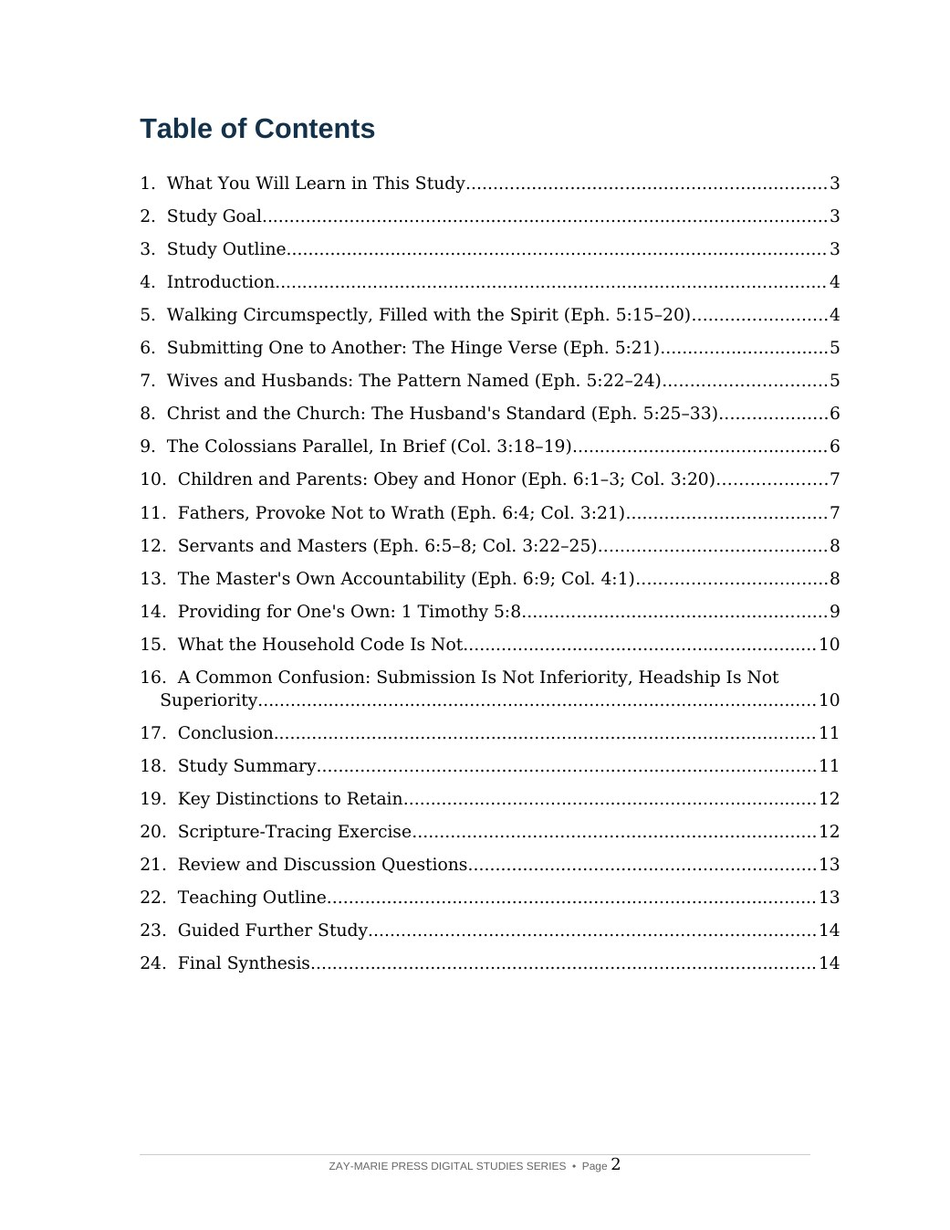
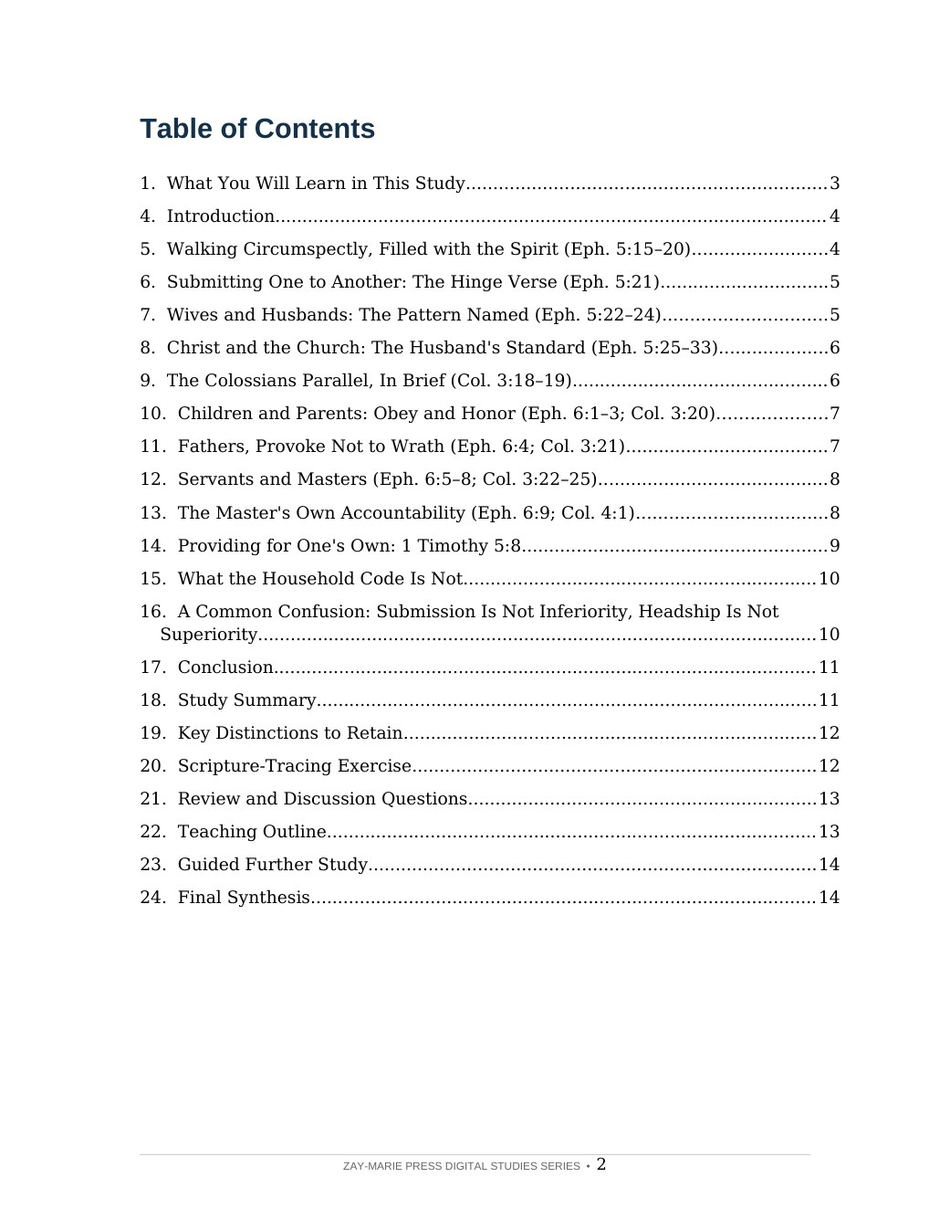
Study 48 previews re-rendered (footer and TOC fix); Study 46 preview strip set to pp. 2, 7, 9; tracker v1.14
Claude-Session: https://claude.ai/code/session_01QibtkwXuhqKkeD6pfcAZUc

diff --git a/study-46-secure-in-christ.html b/study-46-secure-in-christ.html
@@ -1,4 +1,4 @@
 <!doctype html>
 <html lang="en"><head><meta charset="utf-8"><meta name="viewport" content="width=device-width,initial-scale=1"><title>Secure in Christ | Zay-Marie Press</title><meta name="description" content="Can the believer’s standing in Christ be lost? Trace the seal and earnest of the Spirit, Romans 8:28–39, and 2 Timothy 2:11–13, then answer the hardest texts raised against it. Preview Study 46 from Zay-Marie Press."><link rel="stylesheet" href="styles.css?v=20260921-4"><link rel="icon" type="image/png" href="assets/zay-marie-press-favicon.png"><style>
 .study-detail-page{background:#fff;color:#252525}.detail-hero{background:linear-gradient(135deg,#f8f5ec,#e3ece2);padding:58px 0}.detail-hero-grid{display:grid;grid-template-columns:minmax(250px,.72fr) minmax(0,1.28fr);gap:58px;align-items:center}.detail-cover{max-width:390px;margin:auto}.detail-cover img{display:block;width:100%;height:auto;box-shadow:0 14px 36px rgba(8,45,69,.18)}.detail-hero h1{font-size:clamp(2.7rem,5vw,4.7rem);line-height:1.02;margin:8px 0 10px;color:#143823}.detail-subtitle{font-family:Georgia,serif;font-size:1.35rem;font-weight:700;color:#082d45;margin:0 0 7px}.detail-kicker{font-family:Georgia,serif;font-style:italic;font-size:1.05rem;color:#4a4a44;margin:0 0 22px}.detail-copy{font-size:1.08rem;line-height:1.65;max-width:760px}.detail-buyline{display:flex;align-items:center;gap:18px;flex-wrap:wrap;margin-top:25px}.detail-price{font-family:Georgia,serif;font-size:2rem;font-weight:700;color:#143823}.detail-format,.preview-card .page-no{font-family:Arial,sans-serif;font-size:.76rem;font-weight:700;letter-spacing:.1em;text-transform:uppercase;color:#176b3a}.detail-button{display:inline-block;background:#176b3a;color:#fff;padding:13px 22px;font-family:Arial,sans-serif;font-size:.8rem;font-weight:700;letter-spacing:.07em;text-transform:uppercase}.detail-button.pending{opacity:.72;cursor:default}.detail-section{padding:66px 0}.detail-section.soft{background:#f6f7f2}.detail-section.cream{background:#faf8f2}.detail-section h2{color:#143823;margin:6px 0 18px;font-size:clamp(2rem,3.4vw,3rem)}.detail-section .lead{max-width:920px;font-size:1.1rem;line-height:1.62}.study-distinction{max-width:920px;margin-top:28px;margin-bottom:28px;padding:26px 28px;background:#fff;border:1px solid #d8d1bf;border-left:4px solid #b8871c}.study-distinction h3{margin:0 0 10px;color:#143823}.study-distinction p{margin:0 0 14px;line-height:1.62}.study-distinction a{font-family:Arial,sans-serif;font-weight:700;color:#176b3a;text-decoration:none}.study-points{display:grid;grid-template-columns:repeat(3,1fr);gap:18px;margin-top:28px;margin-bottom:28px}.study-point,.scripture-card,.preview-card,.include-item{background:#fff;border:1px solid var(--line);text-align:left}.study-point{border-top:3px solid #176b3a;padding:22px}.study-point h3{color:#143823;margin:0 0 8px;font-size:1.2rem}.study-point p,.scripture-card p,.preview-card p,.include-item p{margin:0;line-height:1.55}.scripture-grid{display:grid;grid-template-columns:repeat(4,1fr);gap:14px;margin-top:24px;margin-bottom:24px}.scripture-card{padding:22px 20px;color:#143823}.scripture-card h3{margin:0 0 9px;font-family:Georgia,serif;font-size:1rem;line-height:1.35}.scripture-card p{font-size:.94rem;color:#45453f}.excerpt{max-width:900px;margin:28px auto;border-left:4px solid #b8871c;padding:10px 0 10px 28px}.excerpt blockquote{font-family:Georgia,serif;font-size:clamp(1.45rem,2.5vw,2rem);line-height:1.45;color:#143823;margin:0 0 16px}.excerpt p{line-height:1.6;margin:0}.preview-grid{display:grid;grid-template-columns:repeat(3,1fr);gap:20px;margin-top:28px;margin-bottom:28px}.preview-card{padding:18px;min-height:210px;box-shadow:0 7px 20px rgba(20,40,25,.05)}.preview-image-link{display:block;margin:0 0 18px}.preview-image-link img{display:block;width:100%;height:auto;border:1px solid #d8d1bf;box-shadow:0 8px 22px rgba(20,40,25,.1);transition:transform .18s ease,box-shadow .18s ease}.preview-image-link:hover img{transform:translateY(-2px);box-shadow:0 11px 28px rgba(20,40,25,.16)}.preview-card h3{color:#143823;margin:8px 0 10px}.preview-instruction{margin:10px 0 0;font-family:Arial,sans-serif;font-size:.78rem;letter-spacing:.04em;color:#5b5b55}.includes-grid{display:grid;grid-template-columns:repeat(4,1fr);gap:14px;margin-top:26px}.include-item{padding:22px 20px;color:#143823}.include-item h3{margin:0 0 9px;font-family:Arial,sans-serif;font-size:.86rem;line-height:1.35;letter-spacing:.02em}.include-item p{font-size:.94rem;color:#45453f}.final-buy{background:#082d45;color:#fff;border-top:4px solid #b8871c;padding:42px 48px;display:grid;grid-template-columns:1fr auto;gap:36px;align-items:center}.final-buy .eyebrow,.final-buy h2,.final-buy .detail-price{color:#fff}.final-buy h2{margin:7px 0 6px}.final-buy p{margin:0}.final-offer{text-align:center}.back-link{display:inline-block;margin-top:18px;color:#143823;font-family:Arial,sans-serif;font-weight:700;text-decoration:none}.preview-lightbox{position:fixed;inset:0;z-index:10000;display:none;align-items:flex-start;justify-content:center;background:rgba(8,22,16,.88);padding:24px;overflow:auto}.preview-lightbox.open{display:flex}.preview-lightbox img{display:block;width:auto;height:auto;max-width:none;box-shadow:0 18px 55px rgba(0,0,0,.4);background:#fff}.preview-lightbox-close{position:fixed;top:18px;right:24px;z-index:10001;width:46px;height:46px;border:1px solid rgba(255,255,255,.65);border-radius:50%;background:rgba(0,0,0,.55);color:#fff;font:32px/1 Arial,sans-serif;cursor:pointer}@media(max-width:900px){.detail-hero-grid{grid-template-columns:1fr;gap:34px}.detail-cover{max-width:330px}.study-points{grid-template-columns:repeat(2,1fr)}.scripture-grid,.includes-grid{grid-template-columns:repeat(2,1fr)}.preview-grid,.final-buy{grid-template-columns:1fr}.final-offer{text-align:left}}@media(max-width:560px){.detail-hero{padding:42px 0}.detail-section{padding:50px 0}.study-points,.scripture-grid,.includes-grid{grid-template-columns:1fr}.final-buy{padding:32px 24px}.detail-buyline{align-items:flex-start;flex-direction:column;gap:8px}.preview-lightbox{padding:58px 10px 24px}.preview-lightbox img{width:100%;max-width:100%;height:auto}} .detail-hero h1{font-size:clamp(2.1rem,4.2vw,3.7rem);line-height:1.08}</style></head><body class="study-detail-page">
-<header class="site-header"><div class="wrap nav"><a class="logo" href="index.html" aria-label="Zay-Marie Press home"><img src="assets/zay-marie-press-logo-hq.png" alt="Zay-Marie Press" width="420" height="238"></a><button class="menu-toggle" type="button" aria-expanded="false" aria-controls="primary-nav">MENU</button><nav aria-label="Primary navigation" class="primary-nav" id="primary-nav"><a href="index.html">HOME</a><a href="books.html">BOOKS</a><a href="series.html">SERIES</a><a class="active" aria-current="page" href="digital-studies.html">DIGITAL STUDIES</a><a href="biblical-hermeneutics-course.html">COURSE</a><a href="about.html">ABOUT</a><a href="resources.html">RESOURCES</a><a href="contact.html">CONTACT</a></nav></div></header><main><section class="detail-hero"><div class="wrap detail-hero-grid"><div class="detail-cover"><picture><source srcset="assets/study-46-cover.webp" type="image/webp"><img src="assets/study-46-cover.jpg" alt="Secure in Christ — Study 46 cover"></picture></div><div><div class="eyebrow">STUDY 46 · DIGITAL STUDY</div><h1>Secure in Christ</h1><p class="detail-subtitle">The Seal of the Spirit, the Love That Cannot Be Severed, and the Faithfulness of God</p><p class="detail-kicker">A Biblical Examination of the Believer’s Security in Christ Under the Mystery Revealed Through Paul</p><p class="detail-copy">The believer under grace is told to rest in a standing he did not earn and cannot maintain by his own strength. That raises a direct question: can what was freely given be taken away, forfeited, or lost? Believers fail, doubt, and sometimes fall into open disobedience — and if the believer’s standing depended even partly on his own performance, no believer could ever be sure of it.</p><p class="detail-copy">This study answers from Paul’s own letters: the seal and earnest of the Spirit, the unbroken chain of Romans 8:28–39, and God’s own faithfulness in 2 Timothy 2:11–13. It then reads the texts most often raised against that security, inside and outside Paul’s letters, and distinguishes a lost reward from a lost standing, so the two are never confused.</p><div class="detail-buyline"><span class="detail-price">$5.99</span><span class="detail-format">Digital PDF · 15 Pages</span><span class="detail-button pending" aria-disabled="true">Checkout Coming Soon</span></div></div></div></section><section class="detail-section"><div class="wrap"><div class="eyebrow">ABOUT THIS STUDY</div><h2>A Standing Secured by God, Not Maintained by the Believer</h2><p class="lead">Paul’s letters answer the believer’s security question directly, in his own terms and for his own audience. The seal of the Spirit marks ownership and names its own terminus — “unto the day of redemption” — not the believer’s next failure. The earnest is God’s own pledge of a certain future payment. Romans 8:28–39 traces a chain in which every verb belongs to God and closes with a total, named list of what cannot separate the believer from His love.</p><p class="lead">This study is not a general study of the believer’s identity in Christ, which Study 16 surveys broadly, nor a re-argument of Hebrews 6:4–6, which Study 28 examines on its own terms, nor a full classification of biblical judgments, which Study 31 undertakes. It assumes each of those and asks a narrower question: once a standing is given in Christ, is that standing ever revocable?</p><div class="study-distinction"><h3>How These Studies Relate</h3><p>Study 46 traces the ground, the argument, and the objections concerning the believer’s secure standing in Christ under grace.</p><p><a href="study-16-the-believers-identity-in-christ.html">Study 16 — The Believer&#x27;s Identity in Christ</a> Start with the believer’s settled identity in Christ, including the seal and the earnest introduced there as ground for assurance; Study 46 asks the narrower question that study leaves open, whether that standing can be lost.</p><p><a href="study-28-the-warning-of-hebrews-6-4-6.html">Study 28 — The Warning of Hebrews 6:4–6</a> Read the full exposition of this frequently raised warning text within its own Hebrew, covenant audience; Study 46 relies on that exposition rather than re-arguing it.</p><p><a href="study-31-the-judgments-of-scripture.html">Study 31 — The Judgments of Scripture</a> Use the broader classification of biblical judgments to keep a lost reward distinct from a lost standing, the same distinction Study 46 draws from 1 Corinthians 3:11–15 and 2 Timothy 2:12.</p><p class="connection-guide-link"><a href="study-connections.html#study-46">Explore the full connection guide for Study 46 →</a></p></div><div class="eyebrow">WHAT YOU’LL STUDY</div><h2>Trace the Ground, the Argument, and the Objections</h2><div class="study-points"><div class="study-point"><h3>What Grounds the Believer's Acceptance</h3><p>Test whether the believer’s acceptance in Ephesians 1:6 rests on Christ’s work or on ongoing performance.</p></div><div class="study-point"><h3>Sealed Unto the Day of Redemption</h3><p>Read Ephesians 1:13–14 and 4:30’s stated terminus for the Spirit’s seal of ownership.</p></div><div class="study-point"><h3>The Earnest of the Spirit</h3><p>Examine what kind of guarantee an earnest actually is, and what Ephesians 1:14 says it obligates God to deliver.</p></div><div class="study-point"><h3>An Unbroken Chain</h3><p>Trace Romans 8:28–39’s chain of God’s own verbs, and its list of what cannot separate.</p></div><div class="study-point"><h3>Kept by His Faithfulness</h3><p>Read 2 Timothy 2:11–13’s distinction between a denied reward and God’s own unchanging character.</p></div><div class="study-point"><h3>Reward Lost, Standing Kept</h3><p>Follow 1 Corinthians 3:11–15’s tested work, and Paul’s verdict on the worker himself.</p></div></div><div class="eyebrow">KEY SCRIPTURES</div><h2>Examine the Passages for Yourself</h2><div class="scripture-grid"><div class="scripture-card"><h3>Ephesians 1:13–14</h3><p>Sealed with the Spirit of promise, given as the earnest of the inheritance.</p></div><div class="scripture-card"><h3>Ephesians 4:30</h3><p>Sealed “unto the day of redemption” — the seal’s own stated terminus.</p></div><div class="scripture-card"><h3>Romans 8:29–30</h3><p>Foreknown, predestinated, called, justified, glorified — a chain of God’s own verbs.</p></div><div class="scripture-card"><h3>Romans 8:31–39</h3><p>An exhaustive, named list of what cannot separate the believer from God’s love.</p></div><div class="scripture-card"><h3>2 Timothy 2:11–13</h3><p>“He abideth faithful: he cannot deny himself” — the guarantee is God’s own character.</p></div><div class="scripture-card"><h3>1 Corinthians 3:11–15</h3><p>Work tested by fire; the worker himself is stated to be saved.</p></div><div class="scripture-card"><h3>Galatians 5:1–6</h3><p>“Fallen from grace” read within its own argument about law-keeping, not lost standing.</p></div><div class="scripture-card"><h3>Hebrews 6:4–6</h3><p>A covenant-audience warning, examined fully in Study 28, not transferred to the Body.</p></div></div><div class="eyebrow">FROM THE STUDY</div><h2>A Chain With No Human Link</h2><div class="excerpt"><blockquote>Foreknew, predestinated, called, justified, glorified — every verb in that chain belongs to God.</blockquote><p>A chain with no human link cannot be broken by human failure. Romans 8:29–30 traces the believer’s security from foreknowledge to glory in a single, unbroken sequence, and every verb in it is something God does, not something the believer maintains.</p></div><div class="eyebrow">A LOOK INSIDE</div><h2>Preview the Study Before You Purchase</h2><p class="preview-instruction">Click any page to enlarge it for reading.</p><div class="preview-grid"><div class="preview-card"><a class="preview-image-link" data-preview-lightbox href="assets/study-46-page-2.jpg"><img src="assets/study-46-page-2.jpg" alt="Study 46 page 2: table of contents"></a><div class="page-no">Page 2</div><h3>Table of Contents</h3><p>See the study’s full structure and scope at a glance.</p></div><div class="preview-card"><a class="preview-image-link" data-preview-lightbox href="assets/study-46-page-3.jpg"><img src="assets/study-46-page-3.jpg" alt="Study 46 page 3: what you will learn, study goal, and study outline"></a><div class="page-no">Page 3</div><h3>What You Will Learn</h3><p>See the study’s goal, outline, and the question it sets out to answer.</p></div><div class="preview-card"><a class="preview-image-link" data-preview-lightbox href="assets/study-46-page-8.jpg"><img src="assets/study-46-page-8.jpg" alt="Study 46 page 8: reading Paul’s conditional texts and the objection texts outside his letters"></a><div class="page-no">Page 8</div><h3>Reading Paul’s “If” Texts</h3><p>Watch how the study reads conditional wording in Paul’s letters within its own argument.</p></div></div><div class="eyebrow">WHAT’S INCLUDED</div><h2>A Focused Study Built for<br>Understanding and Teaching</h2><div class="includes-grid"><div class="include-item"><h3>14-Page In-Depth Biblical Study</h3><p>A careful study of the believer’s secure standing in Christ, grounded in Paul’s own letters.</p></div><div class="include-item"><h3>9 Core Teaching Sections</h3><p>Progress from the ground of security through Paul’s strongest argument to the hardest objection texts.</p></div><div class="include-item"><h3>Two Comparison Tables</h3><p>See the seal’s own terms at a glance, and weigh each objection text by its audience and program.</p></div><div class="include-item"><h3>10 Review Questions</h3><p>Test the study’s distinctions concerning standing, reward, and the texts raised against security.</p></div><div class="include-item"><h3>Teaching Outline</h3><p>A structured framework for teaching the believer’s security with precision.</p></div><div class="include-item"><h3>Guided Further Study</h3><p>Return to the seal, the chain of Romans 8, and the objection texts, with directed questions.</p></div><div class="include-item"><h3>Scripture-Tracing Exercise</h3><p>Trace the study’s key passages across Ephesians, Romans, Timothy, and Corinthians in their own context.</p></div><div class="include-item"><h3>Final Synthesis Exercise</h3><p>Bring the evidence together in one coherent, Scripture-based explanation.</p></div></div><div class="final-buy"><div><div class="eyebrow">STUDY 46 · DIGITAL STUDY</div><h2>Secure in Christ</h2><p>15-page digital PDF · For personal use</p></div><div class="final-offer"><div class="detail-price">$5.99</div><span class="detail-button pending" aria-disabled="true">Checkout Coming Soon</span></div></div><a class="back-link" href="digital-studies.html">← Back to All Digital Studies</a></div></section><section class="study-method-course-bridge"><div class="wrap"><div class="study-method-course-panel"><div><div class="eyebrow">BUILD THE INTERPRETIVE METHOD</div><h2>Want More Than a Focused Study?</h2><p>Digital Studies examine particular biblical subjects and difficult passages. The 40-lesson Biblical Hermeneutics course teaches a complete, repeatable method for establishing meaning in context, determining proper assignment, and making responsible application.</p></div><a class="btn btn-primary" href="biblical-hermeneutics-course.html">BIBLICAL HERMENEUTICS COURSE</a></div></div></section></main><div class="preview-lightbox" id="preview-lightbox" role="dialog" aria-modal="true" aria-label="Expanded study preview"><button class="preview-lightbox-close" type="button" aria-label="Close preview">×</button><img id="preview-lightbox-image" alt=""></div><footer class="site-footer"><div class="wrap footer-grid"><div class="footer-about"><h3>Zay-Marie Press</h3><p class="footer-tagline"><em>Where the Bible Means What It Says.</em></p><p>Zay-Marie Press is a Christian theological publisher dedicated to producing doctrinally precise, carefully structured biblical resources that equip pastors, teachers, and serious students with clarity, depth, and Scripture-anchored truth.</p><p><a href="https://zaymariepress.com">zaymariepress.com</a><br><a href="mailto:info@zaymariepress.com">info@zaymariepress.com</a></p></div><div class="footer-column"><h3>Explore</h3><div class="footer-links-stacked"><a href="books.html">Books</a><br><a href="series.html">Series</a><br><a href="biblical-hermeneutics-course.html">Course</a><br><a href="digital-studies.html">Digital Studies</a><br><a href="resources.html">Resources</a><br><a href="bible-book-summaries.html">Bible Book Summaries</a><br><a href="doctrinal-packets.html">Doctrinal Packets</a><br><a href="historical-drift.html">Historical Drift</a><br><a href="about.html">About</a><br><a href="contact.html">Contact</a></div></div><div class="footer-column"><h3>Reader Support</h3><div class="footer-links-stacked"><a href="reader-support.html#faq">FAQ</a><br><a href="reader-support.html#shipping-returns">Shipping &amp; Returns</a><br><a href="reader-support.html#digital-downloads">Digital Downloads</a><br><a href="reader-support.html#contact-support">Contact Support</a></div></div><div class="footer-column"><h3>Acts Overlap</h3><p><strong>Acts Overlap Theology Series</strong></p><p><em>Two Distinct Streams. One Overlap.</em></p><p><a href="series.html">Series Overview</a></p></div></div><div class="wrap footer-bottom">© 2026 Zay-Marie Press. All rights reserved.</div></footer><script src="site.js"></script><script>const lightbox=document.getElementById('preview-lightbox'),lightboxImage=document.getElementById('preview-lightbox-image'),closeLightbox=()=>{lightbox.classList.remove('open');lightboxImage.src='';};document.querySelectorAll('[data-preview-lightbox]').forEach(link=>link.addEventListener('click',event=>{event.preventDefault();lightboxImage.src=link.href;lightboxImage.alt=link.querySelector('img').alt;lightbox.classList.add('open');}));document.querySelector('.preview-lightbox-close').addEventListener('click',closeLightbox);lightbox.addEventListener('click',event=>{if(event.target===lightbox)closeLightbox();});document.addEventListener('keydown',event=>{if(event.key==='Escape')closeLightbox();});</script></body></html>
+<header class="site-header"><div class="wrap nav"><a class="logo" href="index.html" aria-label="Zay-Marie Press home"><img src="assets/zay-marie-press-logo-hq.png" alt="Zay-Marie Press" width="420" height="238"></a><button class="menu-toggle" type="button" aria-expanded="false" aria-controls="primary-nav">MENU</button><nav aria-label="Primary navigation" class="primary-nav" id="primary-nav"><a href="index.html">HOME</a><a href="books.html">BOOKS</a><a href="series.html">SERIES</a><a class="active" aria-current="page" href="digital-studies.html">DIGITAL STUDIES</a><a href="biblical-hermeneutics-course.html">COURSE</a><a href="about.html">ABOUT</a><a href="resources.html">RESOURCES</a><a href="contact.html">CONTACT</a></nav></div></header><main><section class="detail-hero"><div class="wrap detail-hero-grid"><div class="detail-cover"><picture><source srcset="assets/study-46-cover.webp" type="image/webp"><img src="assets/study-46-cover.jpg" alt="Secure in Christ — Study 46 cover"></picture></div><div><div class="eyebrow">STUDY 46 · DIGITAL STUDY</div><h1>Secure in Christ</h1><p class="detail-subtitle">The Seal of the Spirit, the Love That Cannot Be Severed, and the Faithfulness of God</p><p class="detail-kicker">A Biblical Examination of the Believer’s Security in Christ Under the Mystery Revealed Through Paul</p><p class="detail-copy">The believer under grace is told to rest in a standing he did not earn and cannot maintain by his own strength. That raises a direct question: can what was freely given be taken away, forfeited, or lost? Believers fail, doubt, and sometimes fall into open disobedience — and if the believer’s standing depended even partly on his own performance, no believer could ever be sure of it.</p><p class="detail-copy">This study answers from Paul’s own letters: the seal and earnest of the Spirit, the unbroken chain of Romans 8:28–39, and God’s own faithfulness in 2 Timothy 2:11–13. It then reads the texts most often raised against that security, inside and outside Paul’s letters, and distinguishes a lost reward from a lost standing, so the two are never confused.</p><div class="detail-buyline"><span class="detail-price">$5.99</span><span class="detail-format">Digital PDF · 15 Pages</span><span class="detail-button pending" aria-disabled="true">Checkout Coming Soon</span></div></div></div></section><section class="detail-section"><div class="wrap"><div class="eyebrow">ABOUT THIS STUDY</div><h2>A Standing Secured by God, Not Maintained by the Believer</h2><p class="lead">Paul’s letters answer the believer’s security question directly, in his own terms and for his own audience. The seal of the Spirit marks ownership and names its own terminus — “unto the day of redemption” — not the believer’s next failure. The earnest is God’s own pledge of a certain future payment. Romans 8:28–39 traces a chain in which every verb belongs to God and closes with a total, named list of what cannot separate the believer from His love.</p><p class="lead">This study is not a general study of the believer’s identity in Christ, which Study 16 surveys broadly, nor a re-argument of Hebrews 6:4–6, which Study 28 examines on its own terms, nor a full classification of biblical judgments, which Study 31 undertakes. It assumes each of those and asks a narrower question: once a standing is given in Christ, is that standing ever revocable?</p><div class="study-distinction"><h3>How These Studies Relate</h3><p>Study 46 traces the ground, the argument, and the objections concerning the believer’s secure standing in Christ under grace.</p><p><a href="study-16-the-believers-identity-in-christ.html">Study 16 — The Believer&#x27;s Identity in Christ</a> Start with the believer’s settled identity in Christ, including the seal and the earnest introduced there as ground for assurance; Study 46 asks the narrower question that study leaves open, whether that standing can be lost.</p><p><a href="study-28-the-warning-of-hebrews-6-4-6.html">Study 28 — The Warning of Hebrews 6:4–6</a> Read the full exposition of this frequently raised warning text within its own Hebrew, covenant audience; Study 46 relies on that exposition rather than re-arguing it.</p><p><a href="study-31-the-judgments-of-scripture.html">Study 31 — The Judgments of Scripture</a> Use the broader classification of biblical judgments to keep a lost reward distinct from a lost standing, the same distinction Study 46 draws from 1 Corinthians 3:11–15 and 2 Timothy 2:12.</p><p class="connection-guide-link"><a href="study-connections.html#study-46">Explore the full connection guide for Study 46 →</a></p></div><div class="eyebrow">WHAT YOU’LL STUDY</div><h2>Trace the Ground, the Argument, and the Objections</h2><div class="study-points"><div class="study-point"><h3>What Grounds the Believer's Acceptance</h3><p>Test whether the believer’s acceptance in Ephesians 1:6 rests on Christ’s work or on ongoing performance.</p></div><div class="study-point"><h3>Sealed Unto the Day of Redemption</h3><p>Read Ephesians 1:13–14 and 4:30’s stated terminus for the Spirit’s seal of ownership.</p></div><div class="study-point"><h3>The Earnest of the Spirit</h3><p>Examine what kind of guarantee an earnest actually is, and what Ephesians 1:14 says it obligates God to deliver.</p></div><div class="study-point"><h3>An Unbroken Chain</h3><p>Trace Romans 8:28–39’s chain of God’s own verbs, and its list of what cannot separate.</p></div><div class="study-point"><h3>Kept by His Faithfulness</h3><p>Read 2 Timothy 2:11–13’s distinction between a denied reward and God’s own unchanging character.</p></div><div class="study-point"><h3>Reward Lost, Standing Kept</h3><p>Follow 1 Corinthians 3:11–15’s tested work, and Paul’s verdict on the worker himself.</p></div></div><div class="eyebrow">KEY SCRIPTURES</div><h2>Examine the Passages for Yourself</h2><div class="scripture-grid"><div class="scripture-card"><h3>Ephesians 1:13–14</h3><p>Sealed with the Spirit of promise, given as the earnest of the inheritance.</p></div><div class="scripture-card"><h3>Ephesians 4:30</h3><p>Sealed “unto the day of redemption” — the seal’s own stated terminus.</p></div><div class="scripture-card"><h3>Romans 8:29–30</h3><p>Foreknown, predestinated, called, justified, glorified — a chain of God’s own verbs.</p></div><div class="scripture-card"><h3>Romans 8:31–39</h3><p>An exhaustive, named list of what cannot separate the believer from God’s love.</p></div><div class="scripture-card"><h3>2 Timothy 2:11–13</h3><p>“He abideth faithful: he cannot deny himself” — the guarantee is God’s own character.</p></div><div class="scripture-card"><h3>1 Corinthians 3:11–15</h3><p>Work tested by fire; the worker himself is stated to be saved.</p></div><div class="scripture-card"><h3>Galatians 5:1–6</h3><p>“Fallen from grace” read within its own argument about law-keeping, not lost standing.</p></div><div class="scripture-card"><h3>Hebrews 6:4–6</h3><p>A covenant-audience warning, examined fully in Study 28, not transferred to the Body.</p></div></div><div class="eyebrow">FROM THE STUDY</div><h2>A Chain With No Human Link</h2><div class="excerpt"><blockquote>Foreknew, predestinated, called, justified, glorified — every verb in that chain belongs to God.</blockquote><p>A chain with no human link cannot be broken by human failure. Romans 8:29–30 traces the believer’s security from foreknowledge to glory in a single, unbroken sequence, and every verb in it is something God does, not something the believer maintains.</p></div><div class="eyebrow">A LOOK INSIDE</div><h2>Preview the Study Before You Purchase</h2><p class="preview-instruction">Click any page to enlarge it for reading.</p><div class="preview-grid"><div class="preview-card"><a class="preview-image-link" data-preview-lightbox href="assets/study-46-page-2.jpg"><img src="assets/study-46-page-2.jpg" alt="Study 46 page 2: table of contents"></a><div class="page-no">Page 2</div><h3>Table of Contents</h3><p>See the study’s full structure and scope at a glance.</p></div><div class="preview-card"><a class="preview-image-link" data-preview-lightbox href="assets/study-46-page-7.jpg"><img src="assets/study-46-page-7.jpg" alt="Study 46 page 7: 2 Timothy 2:11–13 and the distinction between reward and standing"></a><div class="page-no">Page 7</div><h3>2 Timothy 2:11–13 and the Reward Distinction</h3><p>See how the study reads a conditional passage within its own argument.</p></div><div class="preview-card"><a class="preview-image-link" data-preview-lightbox href="assets/study-46-page-9.jpg"><img src="assets/study-46-page-9.jpg" alt="Study 46 page 9: objection texts weighed by audience and program"></a><div class="page-no">Page 9</div><h3>Objection Texts and Their Audiences</h3><p>See how the study asks who is addressed, and under which program, before applying a warning.</p></div></div><div class="eyebrow">WHAT’S INCLUDED</div><h2>A Focused Study Built for<br>Understanding and Teaching</h2><div class="includes-grid"><div class="include-item"><h3>14-Page In-Depth Biblical Study</h3><p>A careful study of the believer’s secure standing in Christ, grounded in Paul’s own letters.</p></div><div class="include-item"><h3>9 Core Teaching Sections</h3><p>Progress from the ground of security through Paul’s strongest argument to the hardest objection texts.</p></div><div class="include-item"><h3>Two Comparison Tables</h3><p>See the seal’s own terms at a glance, and weigh each objection text by its audience and program.</p></div><div class="include-item"><h3>10 Review Questions</h3><p>Test the study’s distinctions concerning standing, reward, and the texts raised against security.</p></div><div class="include-item"><h3>Teaching Outline</h3><p>A structured framework for teaching the believer’s security with precision.</p></div><div class="include-item"><h3>Guided Further Study</h3><p>Return to the seal, the chain of Romans 8, and the objection texts, with directed questions.</p></div><div class="include-item"><h3>Scripture-Tracing Exercise</h3><p>Trace the study’s key passages across Ephesians, Romans, Timothy, and Corinthians in their own context.</p></div><div class="include-item"><h3>Final Synthesis Exercise</h3><p>Bring the evidence together in one coherent, Scripture-based explanation.</p></div></div><div class="final-buy"><div><div class="eyebrow">STUDY 46 · DIGITAL STUDY</div><h2>Secure in Christ</h2><p>15-page digital PDF · For personal use</p></div><div class="final-offer"><div class="detail-price">$5.99</div><span class="detail-button pending" aria-disabled="true">Checkout Coming Soon</span></div></div><a class="back-link" href="digital-studies.html">← Back to All Digital Studies</a></div></section><section class="study-method-course-bridge"><div class="wrap"><div class="study-method-course-panel"><div><div class="eyebrow">BUILD THE INTERPRETIVE METHOD</div><h2>Want More Than a Focused Study?</h2><p>Digital Studies examine particular biblical subjects and difficult passages. The 40-lesson Biblical Hermeneutics course teaches a complete, repeatable method for establishing meaning in context, determining proper assignment, and making responsible application.</p></div><a class="btn btn-primary" href="biblical-hermeneutics-course.html">BIBLICAL HERMENEUTICS COURSE</a></div></div></section></main><div class="preview-lightbox" id="preview-lightbox" role="dialog" aria-modal="true" aria-label="Expanded study preview"><button class="preview-lightbox-close" type="button" aria-label="Close preview">×</button><img id="preview-lightbox-image" alt=""></div><footer class="site-footer"><div class="wrap footer-grid"><div class="footer-about"><h3>Zay-Marie Press</h3><p class="footer-tagline"><em>Where the Bible Means What It Says.</em></p><p>Zay-Marie Press is a Christian theological publisher dedicated to producing doctrinally precise, carefully structured biblical resources that equip pastors, teachers, and serious students with clarity, depth, and Scripture-anchored truth.</p><p><a href="https://zaymariepress.com">zaymariepress.com</a><br><a href="mailto:info@zaymariepress.com">info@zaymariepress.com</a></p></div><div class="footer-column"><h3>Explore</h3><div class="footer-links-stacked"><a href="books.html">Books</a><br><a href="series.html">Series</a><br><a href="biblical-hermeneutics-course.html">Course</a><br><a href="digital-studies.html">Digital Studies</a><br><a href="resources.html">Resources</a><br><a href="bible-book-summaries.html">Bible Book Summaries</a><br><a href="doctrinal-packets.html">Doctrinal Packets</a><br><a href="historical-drift.html">Historical Drift</a><br><a href="about.html">About</a><br><a href="contact.html">Contact</a></div></div><div class="footer-column"><h3>Reader Support</h3><div class="footer-links-stacked"><a href="reader-support.html#faq">FAQ</a><br><a href="reader-support.html#shipping-returns">Shipping &amp; Returns</a><br><a href="reader-support.html#digital-downloads">Digital Downloads</a><br><a href="reader-support.html#contact-support">Contact Support</a></div></div><div class="footer-column"><h3>Acts Overlap</h3><p><strong>Acts Overlap Theology Series</strong></p><p><em>Two Distinct Streams. One Overlap.</em></p><p><a href="series.html">Series Overview</a></p></div></div><div class="wrap footer-bottom">© 2026 Zay-Marie Press. All rights reserved.</div></footer><script src="site.js"></script><script>const lightbox=document.getElementById('preview-lightbox'),lightboxImage=document.getElementById('preview-lightbox-image'),closeLightbox=()=>{lightbox.classList.remove('open');lightboxImage.src='';};document.querySelectorAll('[data-preview-lightbox]').forEach(link=>link.addEventListener('click',event=>{event.preventDefault();lightboxImage.src=link.href;lightboxImage.alt=link.querySelector('img').alt;lightbox.classList.add('open');}));document.querySelector('.preview-lightbox-close').addEventListener('click',closeLightbox);lightbox.addEventListener('click',event=>{if(event.target===lightbox)closeLightbox();});document.addEventListener('keydown',event=>{if(event.key==='Escape')closeLightbox();});</script></body></html>

diff --git a/controlling-documents/Digital_Studies_PAM_Audit_v1.14.md b/controlling-documents/Digital_Studies_PAM_Audit_v1.14.md
@@ -1,4 +1,4 @@
-# Digital Studies vs. PAM Audit — v1.13
+# Digital Studies vs. PAM Audit — v1.14
 
 Working tracker and instructions for checking the Digital Studies against the Program Assignment Manual (PAM), §XIX of `Framework_Control_Document_Acts_Overlap.docx`, including its "Section 4 — Publisher Rulings". Same `_vX.Y` convention as the other controlling documents: update the status table and changelog as the audit proceeds, bump the version, and rename the file to match.
 
@@ -168,8 +168,9 @@ The "rapture passages" sentence is not in the DOCX (it was website-only). A rela
 
 - **Doctrine:** read against the PAM, Section 4 and the 2026-09-30 rulings. One conflict: **Study 52 section 3.4 (Galatians 3:26-29)** said "Abraham's seed" and "heirs according to the promise" "describe the Body's own adoption". Publisher ruled (Seed is Christ, prophetic fulfillment; believers participate spiritually in Him; no widening of Israel's national sonship; the Body's adoption stays Pauline and Mystery-grounded) and approved replacement wording. Corrected in the PDF (the two affected paragraphs only; same line count, no repagination). Studies 46, 48, 55, 57, 58, 60, 64, 68 are clear. Watch item only: Study 55 Guided Further Study Investigation 5 ("Identify Israel, Gentiles, the present remnant, and future national expectation", Romans 11) is neutral but near the remnant ruling.
 - **Copyright:** unified line plus the "personal study and teaching use" sentence now in all nine: substituted for the old wording in 46, 52, 55, 57, 60, 64, 68; added to 58 (none before) and to 48 (none before; the last page is full, so it is set as two small lines in the bottom margin under the footer). Direct PDF edits; no DOCX sources.
-- **Preview strips (Master Standard section 16):** 52, 58, 60, 64, 68 already compliant. Rebuilt from the corrected PDFs at 1041 x 1347 as exactly three cards: 46 (pp. 2, 3, 8), 48 (pp. 2, 3, 5; p. 5 chosen by the publisher), 55 (pp. 2, 3, 7), 57 (pp. 2, 3, 6). Study 55's earlier labels and file names were one page off the printed footers (TOC shown as "Page 3"); corrected to printed numbers. Old unreferenced images for these four studies removed.
-- **Open, not changed (publisher not yet decided):** Study 48 footer reads "Page N" (series style is "N"); Study 48 table of contents lists Study Goal and Study Outline (Master Standard v1.25 section 5 says they are not TOC entries). Study 46's What You Will Learn page states the study goal as "why the believer's standing ... cannot be undone" - flagged for a section 17 look.
+- **Preview strips (Master Standard section 16):** 52, 58, 60, 64, 68 already compliant. Rebuilt from the corrected PDFs at 1041 x 1347 as exactly three cards: 46 (first pushed as pp. 2, 3, 8; see below), 48 (pp. 2, 3, 5; p. 5 chosen by the publisher), 55 (pp. 2, 3, 7), 57 (pp. 2, 3, 6). Study 55's earlier labels and file names were one page off the printed footers (TOC shown as "Page 3"); corrected to printed numbers. Old unreferenced images for these four studies removed.
+- **Study 48 (publisher instruction, same day):** footer changed from "Page N" to "N" on all interior pages; Study Goal and Study Outline removed from the table of contents and the rows below moved up (numbers left as in the body headings, so the list reads 1, 4, 5 ... 24). Previews for 48 re-rendered (pp. 2, 3, 5).
+- **Study 46 (publisher instruction, same day):** preview strip set to pp. 2, 7, 9 (contents; 2 Timothy 2:11-13 and the reward distinction; objection texts and their audiences). This strip no longer includes the What You Will Learn page that section 16 calls for; the publisher chose it after the What You Will Learn page was flagged for stating the goal as why the standing "cannot be undone". That page's wording itself is unchanged and still open for a section 17 decision. Page 7 carries the heading "Reward Can Be Lost; Standing Cannot".
 - Corrected PDFs delivered to the publisher, who swaps the files himself.
 
 ## Changelog
@@ -192,3 +193,4 @@ The "rapture passages" sentence is not in the DOCX (it was website-only). A rela
 - v1.12a (2026-09-30): site-wide narrow-screen overflow fixed in styles.css (course-bridge panel button no longer forces the column wider than the phone screen). Not a doctrinal change.
 - v1.12b (2026-09-30): narrow-screen safety block added to styles.css (hero titles scale down at <=480px; hero, series and panel grids can shrink). Sideways overflow 29 page-width cases -> 0 in local test of all pages at 320/360/390. Not a doctrinal change.
 - v1.13 (2026-09-30): nine-PDF sweep recorded (46, 48, 52, 55, 57, 58, 60, 64, 68): Study 52 section 3.4 conflict ruled and corrected in the PDF; copyright unified in all nine; section 16 preview strips rebuilt for 46, 48, 55, 57.
+- v1.14 (2026-09-30): Study 48 footer and table of contents fixed; Study 46 preview strip set to pp. 2, 7, 9 at the publisher's direction.
